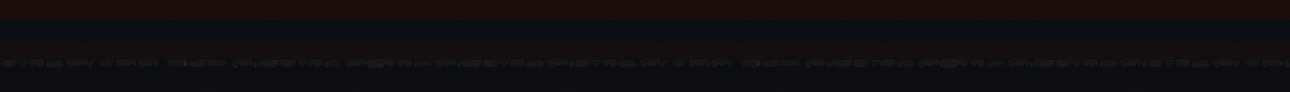
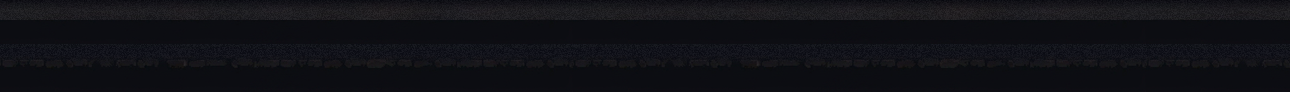
Full visual reset: wipe saves, fix sprite flash boxes, rebuild worlds from pack example

Changed region(s): [[0.0, 0.087, 1.0, 0.2174]]

diff --git a/index.html b/index.html
@@ -10,7 +10,7 @@
   <link rel="preconnect" href="https://fonts.googleapis.com">
   <link rel="preconnect" href="https://fonts.gstatic.com" crossorigin>
   <link href="https://fonts.googleapis.com/css2?family=Cinzel:wght@500;700&display=swap" rel="stylesheet">
-  <link rel="stylesheet" href="style.css?v=132">
+  <link rel="stylesheet" href="style.css?v=133">
 </head>
 <body>
 
@@ -253,16 +253,16 @@
 
   </main>
 
-  <footer class="footer"><p>Dungeon Loop · Build <span class="footer-build">sidescroller-v2-132</span> · Offline-fähig</p></footer>
-  <script src="asset-pack.js?v=132"></script>
-  <script src="world-config.js?v=132"></script>
-  <script src="world-render.js?v=132"></script>
-  <script src="visual-enemies.js?v=132"></script>
-  <script src="visual-fx.js?v=132"></script>
-  <script src="pack-fx.js?v=132"></script>
-  <script src="visual-sprites.js?v=132"></script>
-  <script src="hero-render.js?v=132"></script>
-  <script src="abilities.js?v=132"></script>
-  <script src="script.js?v=132"></script>
+  <footer class="footer"><p>Dungeon Loop · Build <span class="footer-build">sidescroller-v3-133</span> · Offline-fähig</p></footer>
+  <script src="asset-pack.js?v=133"></script>
+  <script src="world-config.js?v=133"></script>
+  <script src="world-render.js?v=133"></script>
+  <script src="visual-enemies.js?v=133"></script>
+  <script src="visual-fx.js?v=133"></script>
+  <script src="pack-fx.js?v=133"></script>
+  <script src="visual-sprites.js?v=133"></script>
+  <script src="hero-render.js?v=133"></script>
+  <script src="abilities.js?v=133"></script>
+  <script src="script.js?v=133"></script>
 </body>
 </html>

diff --git a/script.js b/script.js
@@ -4,9 +4,26 @@
    A/D = Vor/Zurück | P = Pause
    ============================================ */
 
-const BUILD_ID = "sidescroller-v2-132";
-const GAME_VERSION = 2;
-const WORLD_LAYOUT_VERSION = 2;
+const BUILD_ID = "sidescroller-v3-133";
+const GAME_VERSION = 3;
+const WORLD_LAYOUT_VERSION = 3;
+
+/* Einmaliger kompletter Neustart: alle alten lokalen Spielstaende und
+   Weltdaten werden geloescht, damit keine alte Darstellung zurueckkommt. */
+const DATA_WIPE_KEY = "dungeon_loop_wipe_version";
+const DATA_WIPE_VERSION = "3";
+(function wipeLegacyData() {
+  try {
+    if (localStorage.getItem(DATA_WIPE_KEY) === DATA_WIPE_VERSION) return;
+    const stale = [];
+    for (let i = 0; i < localStorage.length; i++) {
+      const key = localStorage.key(i);
+      if (key && key.indexOf("dungeon_loop") === 0) stale.push(key);
+    }
+    stale.forEach((key) => localStorage.removeItem(key));
+    localStorage.setItem(DATA_WIPE_KEY, DATA_WIPE_VERSION);
+  } catch (_) {}
+})();
 
 /** Debug: Hitboxen nur bei ausdrücklich aktiviertem Entwicklungsmodus */
 const DEBUG_HITBOXES = false;
@@ -710,7 +727,7 @@ const LAST_PLAYER_KEY = "dungeon_loop_last_player";
 const LAST_SLOT_KEY = "dungeon_loop_last_slot";
 /** Legacy Highscores (nicht mehr angezeigt) */
 const LOCAL_SCORES_KEY = "dungeon_loop_scores";
-const RUN_SAVE_VERSION = 2;
+const RUN_SAVE_VERSION = 3;
 let runSaveTimer = 0;
 let runSaveDirty = false;
 /** Aktuell gewählter Speicher-Slot (0..2) */

diff --git a/hero-render.js b/hero-render.js
@@ -89,7 +89,8 @@ function hrDrawTintedSprite(ctx, img, dx, y, flashStrength) {
   tc.globalCompositeOperation = "source-atop";
   tc.fillStyle = "rgba(255, 240, 230, " + a + ")";
   tc.fillRect(0, 0, w, h);
-  tc.globalCompositeOperation = "lighter";
+  // Rot ebenfalls nur auf Figur-Pixel ("lighter" würde den transparenten
+  // Bereich aufhellen und ein sichtbares Rechteck um das Sprite erzeugen)
   tc.fillStyle = "rgba(255, 70, 55, " + (a * 0.35) + ")";
   tc.fillRect(0, 0, w, h);
   tc.globalCompositeOperation = "source-over";

diff --git a/visual-enemies.js b/visual-enemies.js
@@ -64,7 +64,8 @@ const VisualEnemies = {
     tc.globalCompositeOperation = "source-atop";
     tc.fillStyle = "rgba(255, 236, 220, " + a + ")";
     tc.fillRect(0, 0, w, h);
-    tc.globalCompositeOperation = "lighter";
+    // Rot ebenfalls nur auf Figur-Pixel ("lighter" würde den transparenten
+    // Bereich aufhellen und ein sichtbares Rechteck um das Sprite erzeugen)
     tc.fillStyle = "rgba(255, 70, 50, " + (a * 0.3) + ")";
     tc.fillRect(0, 0, w, h);
     tc.globalCompositeOperation = "source-over";

diff --git a/asset-pack.js b/asset-pack.js
@@ -10,7 +10,7 @@
     worldReady: Object.create(null),
     worldLoading: Object.create(null),
     base: "assets/pack/",
-    version: "132",
+    version: "133",
 
     loadImage(path) {
       return new Promise((resolve) => {

diff --git a/tools/build_world_layers.py b/tools/build_world_layers.py
@@ -1,60 +1,126 @@
 #!/usr/bin/env python3
-"""Build clean two-layer worlds from the character-free pack source strips.
+"""Baut die 2-Ebenen-Welt (Hintergrund + Weg) nach dem Pack-Beispiel.
 
-The previews remain the colour and composition reference, but contain
-embedded sample armies in several worlds.  Runtime assets are therefore built
-only from `bg.png`, `path.png`, and `foreground.png`: background first, then a
-single continuous combat lane.
+Die Preview-Bilder des Packs sind die verbindliche Vorlage, enthalten aber
+eingebrannte Beispiel-Figuren und HUD-Ecken. Deshalb wird die Welt aus den
+figurfreien Quellen nachgebaut:
+
+  Ebene 1 (scene.png, 1290x268):
+    - bg.png in nativer Groesse (kein Verzerren)
+    - darunter ein texturiertes Wiesen-/Bodenband
+    - Deko-Objekte aus props/ (Baeume, Felsen, Stuempfe ...) am hinteren
+      Wegrand, wie im Beispielbild - rein visuell, keine Kollision
+
+  Ebene 2 (lane.png, 1290x92):
+    - durchgehender texturierter Boden
+    - Pflasterweg (path.png)
+    - Wegrand-Bewuchs (foreground.png) an der Unterkante
 """
 from __future__ import annotations
 
+import random
 from pathlib import Path
 
 import numpy as np
-from PIL import Image
+from PIL import Image, ImageEnhance, ImageFilter
 
 ROOT = Path(__file__).resolve().parents[1]
 WORLDS = ("forest", "swamp", "frost", "fire", "ruins")
 CANVAS_W = 1290
 SCENE_H = 268
 LANE_H = 92
+BG_H = 200          # native Hoehe von bg.png
+VERGE_H = SCENE_H - BG_H  # 68px Mittelband zwischen Panorama und Weg
+
+# Figurfreie, organisch geformte Deko pro Welt (Index in props/<welt>/).
+# Bewusst keine quadratischen Tile-Bloecke und kein frost/prop_02
+# (enthaelt einen gefallenen Ritter).
+SCENERY = {
+    "forest": (1, 2, 3, 5, 6, 11, 14),
+    "swamp": (3, 7, 11, 13, 14, 17, 19, 20, 21),
+    "frost": (3, 5, 6, 10, 13, 14),
+    "fire": (3, 6, 11, 12, 13, 17, 20),
+    "ruins": (3, 5, 6, 8, 11, 15, 21),
+}
+SCENERY_MAX_H = 96  # groessere Objekte wirken wie Spielobjekte auf dem Weg
+
+# Bodenhelligkeit (Mittelband, Kampfweg) pro Welt: Schnee bleibt hell,
+# Glutboden warm, Wald/Sumpf schattig.
+GROUND_LIGHT = {
+    "forest": (0.55, 0.8),
+    "swamp": (0.55, 0.8),
+    "frost": (0.82, 1.0),
+    "fire": (1.15, 1.45),
+    "ruins": (0.62, 0.88),
+}
+
+
 def load(path: Path) -> Image.Image | None:
     return Image.open(path).convert("RGBA") if path.exists() else None
 
 
 def opaque(img: Image.Image) -> Image.Image:
-    """Keep source RGB where the pack uses a transparent fade.
-
-    The old builder preserved that alpha and consequently exposed the black
-    canvas beneath the lower background.  Generated scene/lane layers are
-    deliberately opaque, so they always cover the complete camera area.
-    """
     out = img.convert("RGBA")
     out.putalpha(255)
     return out
 
 
-def visible_colour(*images: Image.Image) -> tuple[int, int, int]:
-    """Return a robust ground colour from opaque source pixels only."""
-    pixels = []
-    for image in images:
-        data = np.asarray(image)
-        visible = data[data[:, :, 3] > 180, :3]
-        if visible.size:
-            pixels.append(visible)
-    if not pixels:
-        return (36, 31, 22)
-    return tuple(np.median(np.concatenate(pixels, axis=0), axis=0).astype(int))
+def darken(img: Image.Image, factor: float) -> Image.Image:
+    """Helligkeit anpassen, Alphakanal unveraendert lassen."""
+    rgb = ImageEnhance.Brightness(img.convert("RGB")).enhance(factor)
+    out = rgb.convert("RGBA")
+    out.putalpha(img.getchannel("A"))
+    return out
 
 
-def lane_base(top: tuple[int, int, int], bottom: tuple[int, int, int]) -> Image.Image:
-    """Make an opaque, texture-ready path base with no transparent gaps."""
-    data = np.zeros((LANE_H, CANVAS_W, 4), dtype=np.uint8)
-    for y in range(LANE_H):
-        t = y / max(1, LANE_H - 1)
-        data[y, :, :3] = np.array(top) * (1 - t) + np.array(bottom) * t
+def soft_ground(strip: Image.Image, height: int, brightness: float, seed: str) -> Image.Image:
+    """Weiches Bodenfeld aus den Farben der Pack-Textur.
+
+    Direktes vertikales Kacheln der schmalen Streifen erzeugte sichtbare
+    Wiederholungsbaender. Stattdessen: Farben stark weichzeichnen und mit
+    feinem Rauschen beleben - wirkt wie Erde/Bewuchs statt wie Kacheln.
+    """
+    base = opaque(strip).resize((CANVAS_W, height), Image.Resampling.BILINEAR)
+    base = base.filter(ImageFilter.GaussianBlur(12))
+    base = darken(base, brightness)
+    data = np.asarray(base).astype(np.int16)
+    rng = np.random.default_rng(abs(hash(seed)) % (2**32))
+    noise = rng.integers(-7, 8, size=(height, CANVAS_W, 1), dtype=np.int16)
+    data[:, :, :3] = np.clip(data[:, :, :3] + noise, 0, 255)
     data[:, :, 3] = 255
-    return Image.fromarray(data, "RGBA")
+    return Image.fromarray(data.astype(np.uint8), "RGBA")
+
+
+def blend_rows(top: Image.Image, bottom: Image.Image, overlap: int) -> None:
+    """Weicher vertikaler Uebergang: letzte overlap-Zeilen von top werden in
+    die ersten Zeilen von bottom eingeblendet (in-place auf bottom)."""
+    ta = np.asarray(top, dtype=np.float32)
+    ba = np.asarray(bottom).copy()
+    for i in range(overlap):
+        t = (i + 1) / (overlap + 1)
+        src = ta[top.height - overlap + i, :, :3]
+        ba[i, :, :3] = (src * (1 - t) + ba[i, :, :3].astype(np.float32) * t).astype(np.uint8)
+    bottom.paste(Image.fromarray(ba, "RGBA"), (0, 0))
+
+
+def place_scenery(scene: Image.Image, theme: str) -> None:
+    """Setzt Deko aus dem Pack an den hinteren Wegrand (nur Hintergrund)."""
+    rng = random.Random(theme)
+    props_dir = ROOT / "assets" / "pack" / "props" / theme
+    indices = SCENERY.get(theme, ())
+    if not indices:
+        return
+    x = rng.randint(30, 110)
+    while x < CANVAS_W - 140:
+        idx = rng.choice(indices)
+        prop = load(props_dir / f"prop_{idx:02d}.png")
+        if prop and prop.height <= SCENERY_MAX_H:
+            deco = darken(prop, 0.82)
+            if rng.random() < 0.5:
+                deco = deco.transpose(Image.FLIP_LEFT_RIGHT)
+            foot = SCENE_H - rng.randint(0, 6)
+            scene.alpha_composite(deco, (x, foot - deco.height))
+        x += rng.randint(170, 330)
 
 
 def build_world_layers(world_dir: Path) -> tuple[Image.Image, Image.Image]:
@@ -65,19 +131,23 @@ def build_world_layers(world_dir: Path) -> tuple[Image.Image, Image.Image]:
     if not bg or not path or not foreground:
         raise FileNotFoundError(f"saubere Weltquellen fehlen in {src}")
 
-    # Background: one opaque, character-free panorama — no preview patches.
-    ground_colour = visible_colour(path, foreground)
-    scene = opaque(bg).resize((CANVAS_W, SCENE_H), Image.Resampling.NEAREST)
+    # ---- Ebene 1: Hintergrund ------------------------------------------
+    # Wiesen-/Bodenband aus der ruhigen Weg-Textur (die Randtextur enthaelt
+    # markante Objekte und wuerde beim Fuellen sichtbare Streifen bilden).
+    verge_light, lane_light = GROUND_LIGHT.get(world_dir.name, (0.55, 0.8))
+    scene = Image.new("RGBA", (CANVAS_W, SCENE_H))
+    scene.paste(opaque(bg), (0, 0))
+    verge = soft_ground(foreground, VERGE_H, verge_light, world_dir.name + "-verge")
+    blend_rows(opaque(bg), verge, 20)
+    scene.paste(verge, (0, BG_H))
+    place_scenery(scene, world_dir.name)
 
-    # Combat lane: an opaque terrain-coloured base prevents transparent
-    # black gaps.  The native-width path strip defines the actual ground line
-    # and the foreground strip joins its lower edge to the surrounding world.
-    # Native sizes are retained: stretching the 24px source path produced the
-    # vertical barcode artefact visible in the previous build.
-    top_colour = tuple(np.asarray(scene)[-1, :, :3].mean(axis=0).astype(int))
-    lane = lane_base(top_colour, ground_colour)
+    # ---- Ebene 2: Weg / Kampfebene -------------------------------------
+    lane = soft_ground(foreground, LANE_H, lane_light, world_dir.name + "-lane")
+    blend_rows(scene, lane, 10)
     lane.alpha_composite(path, (0, 20))
     lane.alpha_composite(foreground, (0, LANE_H - foreground.height))
+    lane = opaque(lane)
     return scene, lane
 
 
